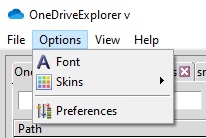
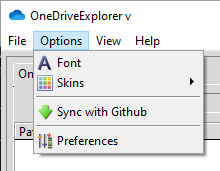
Add files via upload

diff --git a/Docs/OneDriveExplorerManual.md b/Docs/OneDriveExplorerManual.md
@@ -5,6 +5,7 @@
 Revision history  
 2022-11-08 Rev. 1 - Initial Release  
 2022-12-07 Rev. 2 - Updated for v2022.12.08
+2023-03-10 Rev. 3 - Updated for v2023.03.10
 
 ## OneDriveExplorer GUI Introduction
 OneDriveExplorer GUI is used to view the contents of \<UserCid>.dat files. It can load multiple settings, logs, and $Recycle.bin files at once. Search across all settings files, view OneDrive logs and much more.
@@ -66,6 +67,7 @@ The Options menu contains items for the look and feel and preferences of OneDriv
 
 * Font: Change the font type, style, and size. Applies to the Details, Log entries, and Log tabs.
 * Skins: Change the overall look of OneDriveExplorer.
+* Sync with Github: Download the latest ODL Cstructs
 * Preferences: Program options such as auto save, disabling the user hive dialog, and ODL settings.  
 
 The Preferences dialog allows you to change various OneDriveExplorer settings as seen below.
@@ -213,16 +215,19 @@ OneDriveExplorer is a tool used to parse \<UserCid\>.dat files and reconstruct t
 Running OneDriveExplorer.exe without any arguments displays a list of command line options:
 
 ```
-usage: OneDriveExplorer.py [-h] [-f FILE] [-d DIR] [-r REGHIVE] [-rb RECYCLE_BIN] [--csv CSV] [--csvf CSVF]
-                           [--html HTML] [--json JSON] [--pretty] [--cstructs CSTRUCTS] [--debug] [-l [LOGS]]
+usage: OneDriveExplorer.py [-h] [-f FILE] [-d DIR] [-l [LOGS]] [-r REGHIVE] [-rb RECYCLE_BIN] [--csv CSV]
+                           [--csvf CSVF] [--html HTML] [--json JSON] [--pretty] [--clist] [--cstructs CSTRUCTS]
+                           [--sync] [--debug] [--guids]
 
 options:
   -h, --help            show this help message and exit
-  -f FILE, --file  <UserCid>.dat file to be parsed
+  -f FILE, --file FILE  <UserCid>.dat file to be parsed
   -d DIR, --dir DIR     Directory to recursively process, looking for <UserCid>.dat, NTUSER hive, $Recycle.Bin, and
                         ODL logs. This mode is primarily used with KAPE.
+  -l [LOGS], --logs [LOGS]
+                        Directory to recursively process for ODL logs.
   -r REGHIVE, --REG_HIVE REGHIVE
-                        If a registry hive is provided, then the mount points of the SyncEngines will be resolved.
+                        If a registry hive is provided then the mount points of the SyncEngines will be resolved.
   -rb RECYCLE_BIN, --RECYCLE_BIN RECYCLE_BIN
                         $Recycle.Bin
   --csv CSV             Directory to save CSV formatted results to. Be sure to include the full path in double quotes.
@@ -231,11 +236,15 @@ options:
                         quotes.
   --json JSON           Directory to save json representation to. Use --pretty for a more human readable layout.
   --pretty              When exporting to json, use a more human readable layout. Default is FALSE
+  --clist               List available cstructs. Defaults to 'cstructs' folder where program was executed. Use
+                        --cstructs for different cstruct folder.
   --cstructs CSTRUCTS   The path where ODL cstructs are located. Defaults to 'cstructs' folder where program was
                         executed.
+  --sync                If true, OneDriveExplorer will download the latest Cstrucs from
+                        https://github.com/Beercow/ODEFiles prior to running. Default is FALSE
   --debug               Show debug information during processing.
-  -l [LOGS], --logs [LOGS]
-                        Directory to recursively process for ODL logs.  
+  --guids               OneDriveExplorer will generate 10 GUIDs and exit. Useful when creating new Cstructs. Default
+                        is FALSE  
   ```
   
 There are several groups of command line options for OneDriveExplorer.
@@ -266,9 +275,15 @@ There are several groups of command line options for OneDriveExplorer.
 
 ### Other
 
+* **--clist**: List available cstructs. Also used to check for errors in cstruct files.
+
 * **--cstructs**: The path where ODL cstructs are located. Defaults to 'cstructs' folder where program was executed.
 
+* **--sync**: Downloads the latest Cstructs from https://github.com/Beercow/ODEFiles
+
 * **--debug**: Show debug information during processing.
+
+* **--guids**: Generates 10 random GUIDs for use with cstruct files.
 
 ### Usage
 To use OneDriveExplorer, simply provide the `.\<UserCid>.dat` file to the `-f` argument
@@ -284,6 +299,35 @@ A user registry hive can be supplied with the `-r` argument. This will resolve s
 # Creating CStructs
 
 # Version changes
+## v2023.03.10
+### Fixed 
+#### GUI
+* Clear button visuals
+* Updated Copyright in About pane
+### Added
+#### GUI
+* Sync with Github
+#### commandline
+* --clist option to list ODL cstructs and check for errors
+* --guids option  to generate GUIDs for Cstructs
+* --sync command to sync cstructs
+## v2023.03.06
+### Added 
+#### GUI
+* Clear button in search box
+#### commandline/GUI
+* Progress bar for deleted items
+### Fixed 
+#### GUI
+* Remove search term when disabled
+* Clear search when adding OneDrive settings data
+## v2022.12.09
+### Fixed
+#### commandline
+* Fixed error when using -l with -f
+* ODL saves to --csv path (default is .)
+#### GUI
+* ODL saves to Auto Save Path
 ## v2022.12.08
 ### Added
 #### commandline/GUI
